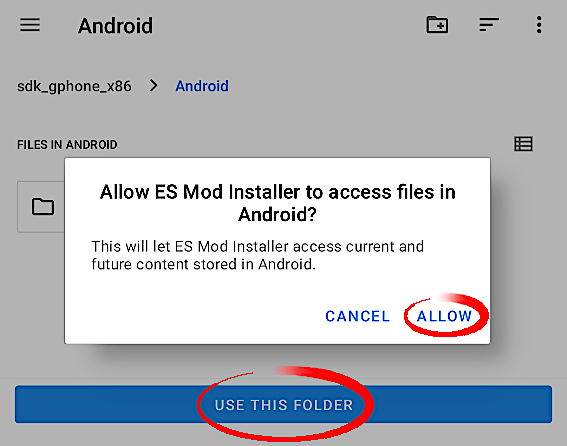
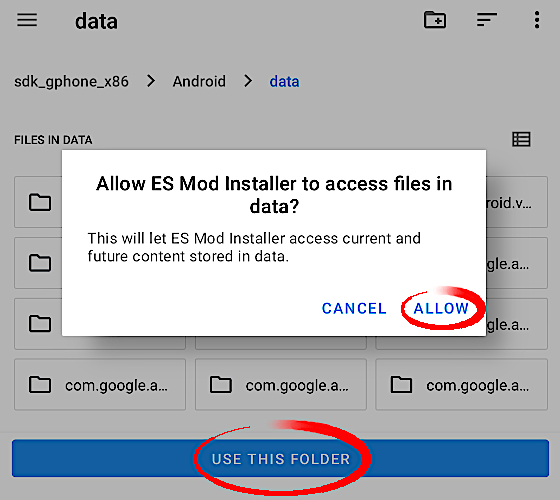
1.7-1. Префикс /sdcard/Android/data. Миграция старой БД. Замена картинки SAF request.
Для target sdk 30 нельзя запросить SAF Access к /sdcard и к
/sdcard/Android. К /sdcard/Android/data, вроде, можно.

При загрузке списка уже установленных файлов, отрезаем путям в начале
/sdcard/Android/data, Android/data и data, чтобы они соответствовали
расположению в новом префиксе. Иначе загрузчик не сможет их корректно
удалить.

В стартовом диалоге SAF access request картинка теперь показывает запрос
к /sdcard/Android/data.

diff --git a/android/src/org/salieff/SafAdapter.java b/android/src/org/salieff/SafAdapter.java
@@ -14,13 +14,13 @@ import android.util.Log;
 public class SafAdapter
 {
     public static final int RequestCode = 513375;
-    public static Uri RootUri = null;
+    public static Uri RootUri = Uri.parse("content://com.android.externalstorage.documents/tree/primary:Android/data");
 
     public static boolean rootUriPermissionGranted(Context context)
     {
         for (UriPermission p : context.getContentResolver().getPersistedUriPermissions())
         {
-            if (p.getUri().toString().equals("content://com.android.externalstorage.documents/tree/primary%3AAndroid") && p.isReadPermission() && p.isWritePermission())
+            if (p.getUri().toString().equals("content://com.android.externalstorage.documents/tree/primary%3AAndroid%2Fdata") && p.isReadPermission() && p.isWritePermission())
             {
                 RootUri = p.getUri();
                 return true;
@@ -34,12 +34,14 @@ public class SafAdapter
     {
         Intent intent = new Intent("android.intent.action.OPEN_DOCUMENT_TREE");
 
-        Uri intentRootUri = DocumentsContract.buildDocumentUri("com.android.externalstorage.documents", "primary:Android");
+        Uri intentRootUri = DocumentsContract.buildDocumentUri("com.android.externalstorage.documents", "primary:Android/data");
         intent.putExtra("android.provider.extra.INITIAL_URI", (Parcelable)intentRootUri);
 
+        /*
         intent.putExtra("android.content.extra.SHOW_ADVANCED", true);
         intent.putExtra("android.content.extra.FANCY", true);
         intent.putExtra("android.content.extra.SHOW_FILESIZE", true);
+        */
 
         return intent;
     }
@@ -47,7 +49,7 @@ public class SafAdapter
     public static void takeRootUriPermission(Context context, Intent intent)
     {
         Uri intentRootUri = intent.getData();
-        if (!intentRootUri.toString().equals("content://com.android.externalstorage.documents/tree/primary%3AAndroid"))
+        if (!intentRootUri.toString().equals("content://com.android.externalstorage.documents/tree/primary%3AAndroid%2Fdata"))
             return;
 
         context.getContentResolver().takePersistableUriPermission(intentRootUri, Intent.FLAG_GRANT_WRITE_URI_PERMISSION | Intent.FLAG_GRANT_READ_URI_PERMISSION);

diff --git a/esmodelement.cpp b/esmodelement.cpp
@@ -452,7 +452,14 @@ void ESModElement::DeserializeFromDB(const QJsonObject &obj)
     QJsonArray files_arr = obj["files"].toArray();
     m_localFiles.clear();
     for (int i = 0; i < files_arr.size(); ++i)
-        m_localFiles << files_arr[i].toString().remove(QRegularExpression("^\\/sdcard\\/"));
+    {
+        auto localFile = files_arr[i].toString();
+        localFile.remove(QRegularExpression("^\\/sdcard\\/Android\\/data"));
+        localFile.remove(QRegularExpression("^Android\\/data"));
+        localFile.remove(QRegularExpression("^data"));
+
+        m_localFiles << localFile;
+    }
 
     QJsonArray langs_arr = obj["langs"].toArray();
     langs.clear();

diff --git a/safadapter.h b/safadapter.h
@@ -34,8 +34,9 @@ public:
     static zlib_filefunc_def MiniZipFileAPI;
 
 private:
-    const static int RootUriPermissionsRequestCode = 513375;
-    const static int MinimalSdkVersionForSaf = 30;
+    static const int RootUriPermissionsRequestCode = 513375;
+    static const int MinimalSdkVersionForSaf = 30;
+    static const char *NativePathPrefix;
 
     static bool CheckRootUriPermissions(void);
     static int FolderSize(const QString &folderPath);

diff --git a/safadapter.cpp b/safadapter.cpp
@@ -9,7 +9,7 @@
 #include "safadapter.h"
 #include "safaccessdialog.h"
 
-static const char *NativePathPrefix = "/sdcard/Android";
+const char * SafAdapter::NativePathPrefix = "/sdcard/Android/data";
 
 
 void SafAdapter::RequestExternalStorageReadWrite(void)

diff --git a/modpaths.h b/modpaths.h
@@ -1,6 +1,6 @@
 #ifndef MODPATHS_H
 #define MODPATHS_H
 
-#define ANDROID_ES_MODS_FOLDER "/data/su.sovietgames.everlasting_summer/files/"
+#define ANDROID_ES_MODS_FOLDER "/su.sovietgames.everlasting_summer/files/"
 
 #endif // MODPATHS_H

diff --git a/version.h b/version.h
@@ -2,7 +2,7 @@
 #define _ES_MANAGER_VERSION_H_
 
 #define ESM_VERSION_MAJOR 1
-#define ESM_VERSION_MINOR 6
-#define ESM_VERSION_BUILD 0
+#define ESM_VERSION_MINOR 7
+#define ESM_VERSION_BUILD 1
 
 #endif // _ES_MANAGER_VERSION_H_
